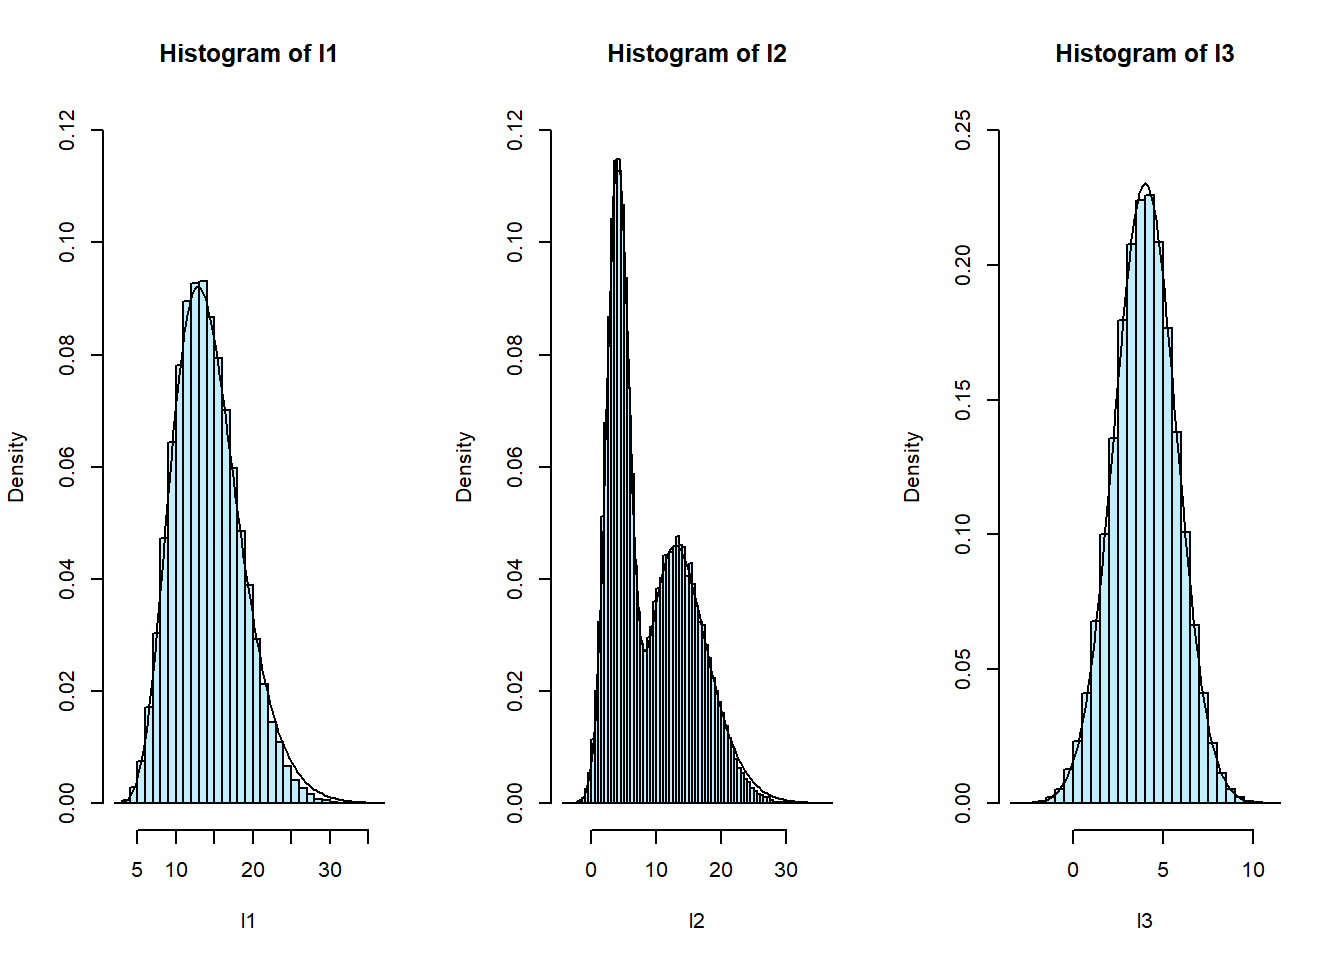
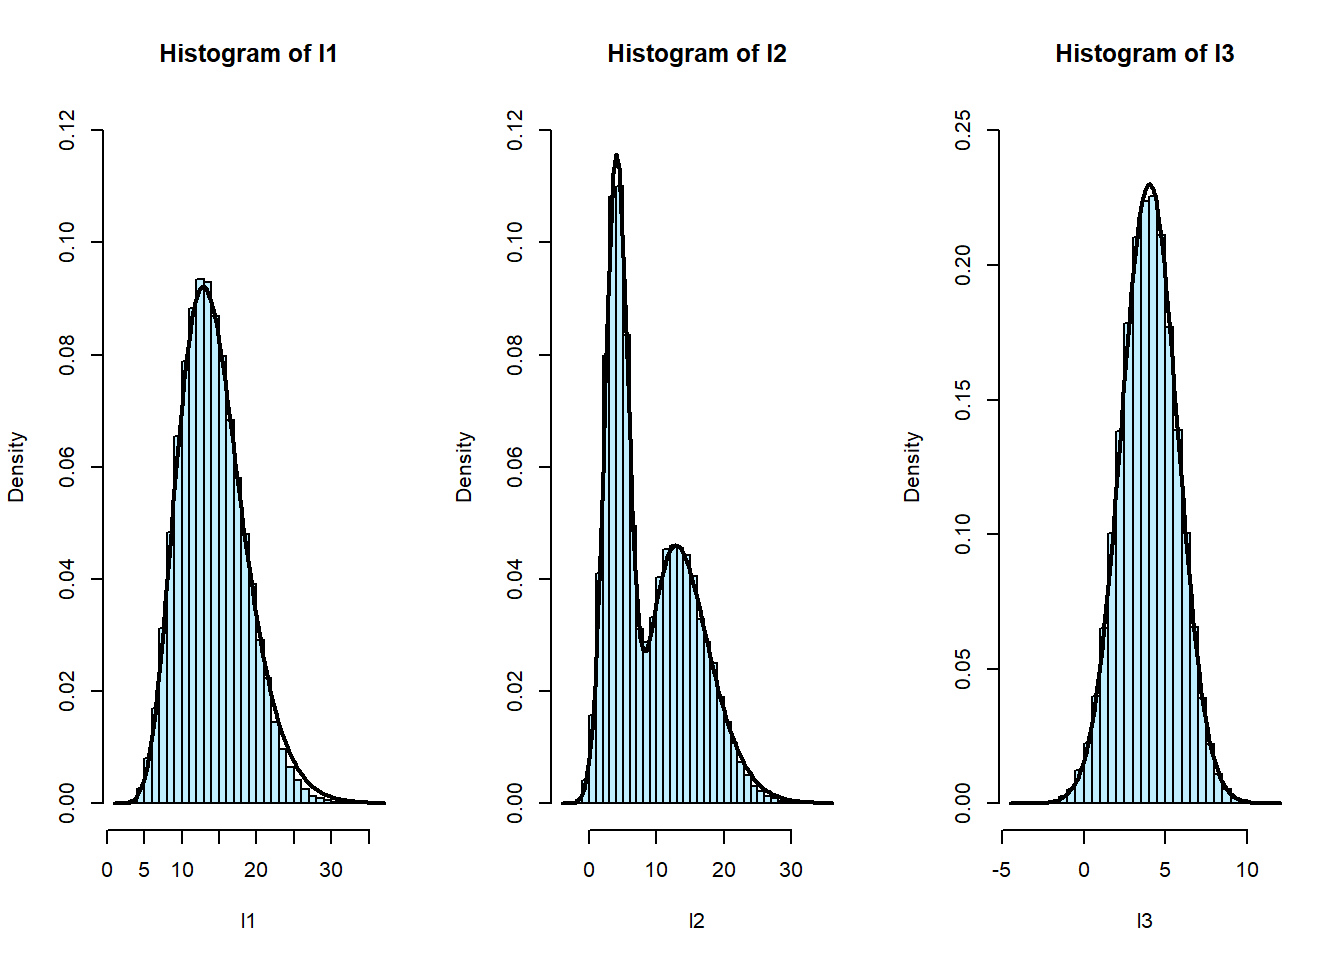
se realizan unos cambios en los graficos del item 3

diff --git a/informe-tarea2.html b/informe-tarea2.html
@@ -489,11 +489,11 @@ code span.wa { color: #60a0b0; font-weight: bold; font-style: italic; } /* Warni
 <span id="cb16-10"><a href="#cb16-10" aria-hidden="true" tabindex="-1"></a><span class="fu">par</span>(<span class="at">mfrow=</span><span class="fu">c</span>(<span class="dv">1</span>,<span class="dv">3</span>))</span>
 <span id="cb16-11"><a href="#cb16-11" aria-hidden="true" tabindex="-1"></a></span>
 <span id="cb16-12"><a href="#cb16-12" aria-hidden="true" tabindex="-1"></a><span class="fu">hist</span>(l1, <span class="at">probability =</span> T,<span class="at">ylim=</span><span class="fu">c</span>(<span class="dv">0</span>,<span class="fl">0.12</span>),<span class="at">breaks =</span> <span class="dv">40</span>, <span class="at">col =</span> <span class="st">"lightblue1"</span>)</span>
-<span id="cb16-13"><a href="#cb16-13" aria-hidden="true" tabindex="-1"></a><span class="fu">curve</span>(<span class="fu">f4</span>(x,<span class="dv">0</span>) ,<span class="at">add =</span> T)</span>
-<span id="cb16-14"><a href="#cb16-14" aria-hidden="true" tabindex="-1"></a><span class="fu">hist</span>(l2, <span class="at">probability =</span> T,<span class="at">ylim=</span><span class="fu">c</span>(<span class="dv">0</span>,<span class="fl">0.12</span>), <span class="at">breaks =</span> <span class="dv">60</span>, <span class="at">col =</span> <span class="st">"lightblue1"</span>)</span>
-<span id="cb16-15"><a href="#cb16-15" aria-hidden="true" tabindex="-1"></a><span class="fu">curve</span>(<span class="fu">f4</span>(x,<span class="fl">0.5</span>),<span class="at">add =</span> T)</span>
+<span id="cb16-13"><a href="#cb16-13" aria-hidden="true" tabindex="-1"></a><span class="fu">curve</span>(<span class="fu">f4</span>(x,<span class="dv">0</span>) ,<span class="at">add =</span> T, <span class="at">lwd=</span><span class="dv">2</span>)</span>
+<span id="cb16-14"><a href="#cb16-14" aria-hidden="true" tabindex="-1"></a><span class="fu">hist</span>(l2, <span class="at">probability =</span> T,<span class="at">ylim=</span><span class="fu">c</span>(<span class="dv">0</span>,<span class="fl">0.12</span>), <span class="at">breaks =</span> <span class="dv">50</span>, <span class="at">col =</span> <span class="st">"lightblue1"</span>)</span>
+<span id="cb16-15"><a href="#cb16-15" aria-hidden="true" tabindex="-1"></a><span class="fu">curve</span>(<span class="fu">f4</span>(x,<span class="fl">0.5</span>),<span class="at">add =</span> T, <span class="at">lwd=</span><span class="dv">2</span>)</span>
 <span id="cb16-16"><a href="#cb16-16" aria-hidden="true" tabindex="-1"></a><span class="fu">hist</span>(l3, <span class="at">probability =</span> T,<span class="at">ylim=</span><span class="fu">c</span>(<span class="dv">0</span>,<span class="fl">0.25</span>), <span class="at">breaks =</span> <span class="dv">40</span>, <span class="at">col =</span> <span class="st">"lightblue1"</span>)</span>
-<span id="cb16-17"><a href="#cb16-17" aria-hidden="true" tabindex="-1"></a><span class="fu">curve</span>(<span class="fu">f4</span>(x,<span class="dv">1</span>) ,<span class="at">add =</span> T)</span></code><button title="Copy to Clipboard" class="code-copy-button"><i class="bi"></i></button></pre></div>
+<span id="cb16-17"><a href="#cb16-17" aria-hidden="true" tabindex="-1"></a><span class="fu">curve</span>(<span class="fu">f4</span>(x,<span class="dv">1</span>) ,<span class="at">add =</span> T, <span class="at">lwd=</span><span class="dv">2</span>)</span></code><button title="Copy to Clipboard" class="code-copy-button"><i class="bi"></i></button></pre></div>
 <div class="cell-output-display">
 <p><img src="informe-tarea2_files/figure-html/unnamed-chunk-13-1.png" class="img-fluid" width="672"></p>
 </div>
@@ -521,14 +521,13 @@ code span.wa { color: #60a0b0; font-weight: bold; font-style: italic; } /* Warni
 <span id="cb17-19"><a href="#cb17-19" aria-hidden="true" tabindex="-1"></a><span class="fu">par</span>(<span class="at">mfrow=</span><span class="fu">c</span>(<span class="dv">1</span>,<span class="dv">3</span>))</span>
 <span id="cb17-20"><a href="#cb17-20" aria-hidden="true" tabindex="-1"></a></span>
 <span id="cb17-21"><a href="#cb17-21" aria-hidden="true" tabindex="-1"></a><span class="fu">hist</span>(<span class="fu">composicion2</span>(<span class="dv">100000</span>,<span class="dv">0</span>), <span class="at">probability=</span>T, <span class="at">breaks=</span><span class="dv">40</span>, <span class="at">col=</span><span class="st">"#00FFFF"</span>)</span>
-<span id="cb17-22"><a href="#cb17-22" aria-hidden="true" tabindex="-1"></a><span class="fu">curve</span>(<span class="fu">f4</span>(x,<span class="dv">0</span>) ,<span class="at">add =</span> T)</span>
+<span id="cb17-22"><a href="#cb17-22" aria-hidden="true" tabindex="-1"></a><span class="fu">curve</span>(<span class="fu">f4</span>(x,<span class="dv">0</span>) ,<span class="at">add =</span> T, <span class="at">lwd=</span><span class="dv">2</span>)</span>
 <span id="cb17-23"><a href="#cb17-23" aria-hidden="true" tabindex="-1"></a></span>
-<span id="cb17-24"><a href="#cb17-24" aria-hidden="true" tabindex="-1"></a><span class="fu">hist</span>(<span class="fu">composicion2</span>(<span class="dv">100000</span>,<span class="fl">0.5</span>), <span class="at">probability=</span>T, <span class="at">breaks=</span><span class="dv">80</span>, <span class="at">col=</span><span class="st">"#00FFFF"</span>)</span>
-<span id="cb17-25"><a href="#cb17-25" aria-hidden="true" tabindex="-1"></a><span class="fu">curve</span>(<span class="fu">f4</span>(x,<span class="fl">0.5</span>) ,<span class="at">add =</span> T)</span>
+<span id="cb17-24"><a href="#cb17-24" aria-hidden="true" tabindex="-1"></a><span class="fu">hist</span>(<span class="fu">composicion2</span>(<span class="dv">100000</span>,<span class="fl">0.5</span>), <span class="at">probability=</span>T, <span class="at">breaks=</span><span class="dv">50</span>, <span class="at">col=</span><span class="st">"#00FFFF"</span>)</span>
+<span id="cb17-25"><a href="#cb17-25" aria-hidden="true" tabindex="-1"></a><span class="fu">curve</span>(<span class="fu">f4</span>(x,<span class="fl">0.5</span>) ,<span class="at">add =</span> T, <span class="at">lwd=</span><span class="dv">2</span>)</span>
 <span id="cb17-26"><a href="#cb17-26" aria-hidden="true" tabindex="-1"></a></span>
-<span id="cb17-27"><a href="#cb17-27" aria-hidden="true" tabindex="-1"></a></span>
-<span id="cb17-28"><a href="#cb17-28" aria-hidden="true" tabindex="-1"></a><span class="fu">hist</span>(<span class="fu">composicion2</span>(<span class="dv">100000</span>,<span class="dv">1</span>), <span class="at">probability=</span>T, <span class="at">breaks =</span> <span class="dv">40</span>, <span class="at">col=</span><span class="st">"#00FFFF"</span>)</span>
-<span id="cb17-29"><a href="#cb17-29" aria-hidden="true" tabindex="-1"></a><span class="fu">curve</span>(<span class="fu">f4</span>(x,<span class="dv">1</span>) ,<span class="at">add =</span> T)</span></code><button title="Copy to Clipboard" class="code-copy-button"><i class="bi"></i></button></pre></div>
+<span id="cb17-27"><a href="#cb17-27" aria-hidden="true" tabindex="-1"></a><span class="fu">hist</span>(<span class="fu">composicion2</span>(<span class="dv">100000</span>,<span class="dv">1</span>), <span class="at">probability=</span>T, <span class="at">breaks =</span> <span class="dv">40</span>, <span class="at">col=</span><span class="st">"#00FFFF"</span>)</span>
+<span id="cb17-28"><a href="#cb17-28" aria-hidden="true" tabindex="-1"></a><span class="fu">curve</span>(<span class="fu">f4</span>(x,<span class="dv">1</span>) ,<span class="at">add =</span> T, <span class="at">lwd=</span><span class="dv">2</span>)</span></code><button title="Copy to Clipboard" class="code-copy-button"><i class="bi"></i></button></pre></div>
 <div class="cell-output-display">
 <p><img src="informe-tarea2_files/figure-html/unnamed-chunk-14-1.png" class="img-fluid" width="672"></p>
 </div>
